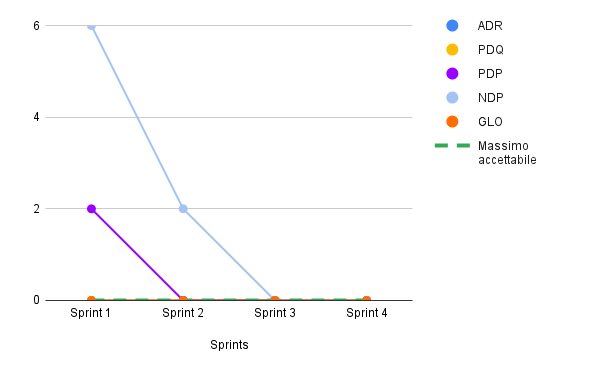
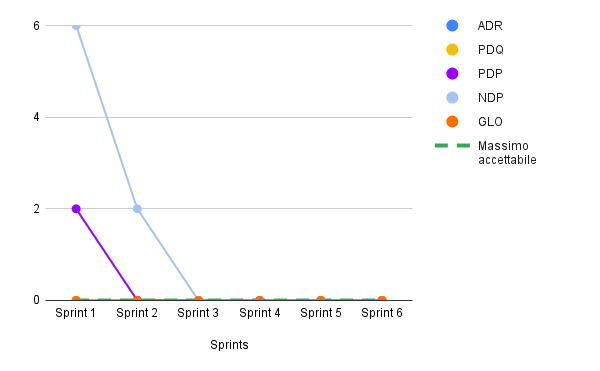
Piano di Qualifica - 178 (#182)
* change: inseriti i grafici

inseriti i grafici fino allo sprint 6

close #178

* Update changelog_input.tex

---------

diff --git a/Docs/Generali/piano_di_qualifica/titlepage.tex b/Docs/Generali/piano_di_qualifica/titlepage.tex
@@ -17,12 +17,12 @@
 	\rule{0.6\textwidth}{0.4pt}
 	\\[0.5cm]
 	\begin{tabular}{r|l}
-		\textbf{Versione} & 0.9.0\\
+		\textbf{Versione} & 0.10.0\\
 		\textbf{Stato} & in redazione\\
 		\textbf{Uso} & Esterno\\                         
 		\textbf{Approvazione} & -\\                      
 		\textbf{Verifica} & Soranzo Andrea\\ & Chilese Elena\\ & Pincin Matteo \\                         
-		\textbf{Redazione} & Diviesti Filippo \\ & Bergamin Elia \\ & Djossa Edgar \\ & Soranzo Andrea \\ 
+		\textbf{Redazione} & Diviesti Filippo \\ & Bergamin Elia \\ & Djossa Edgar \\ & Soranzo Andrea \\ & Pincin Matteo \\ 
 		\textbf{Distribuzione} & \textit{Six Bit Busters} \\ & Prof. Vardanega Tullio \\ & Prof. Cardin Riccardo \\ & \textit{Sanmarco Informatica S.p.A.}
 	\end{tabular}	
 	\\[0.8cm]

diff --git a/Docs/Generali/piano_di_qualifica/05_resoconto.tex b/Docs/Generali/piano_di_qualifica/05_resoconto.tex
@@ -26,7 +26,7 @@ In seguito sono presentati i grafici relativi a diverse metriche significative d
 }
 { % DESCRIZIONE RTB
     Il grafico mostra una crescita dei costi regolare e prevedibile, coerente con una pianificazione accurata che suddivide equamente il budget tra i vari sprint.
-    Questo è un valore positivo e significa che il team riesce a pianificare nel modo corretto le ore per ogni ruolo ad ogni print.
+    Questo è un valore positivo e significa che il team riesce a pianificare nel modo corretto le ore per ogni ruolo ad ogni sprint.
 }
 
 \Met

diff --git a/Docs/Generali/piano_di_qualifica/config/changelog_input.tex b/Docs/Generali/piano_di_qualifica/config/changelog_input.tex
@@ -1,5 +1,6 @@
 % Insert changelog values here
 \changelogTable{
+	0.10.0 & 21-02-2025 & Pincin Matteo & Resoconto attività di verifica & Chilese Elena \\
 	0.9.0 & 27-01-2025 & Chilese Elena & Revisione documento & Pincin Matteo \\
 	0.8.0 & 26-01-2025 & Soranzo Andrea & Revisione test & Chilese Elena \\
     0.7.0 & 25-01-2025 & Bergamin Elia & Test di accettazione & Chilese Elena \\ 
